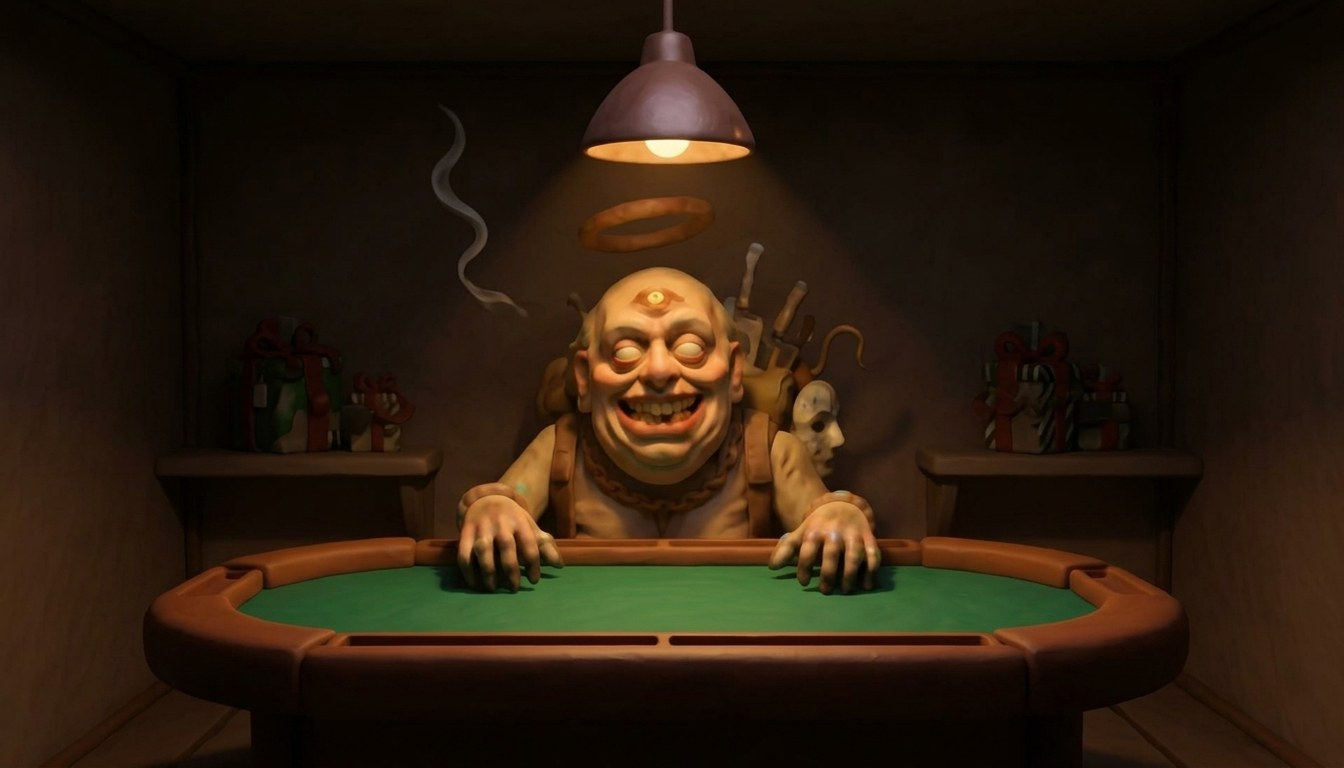
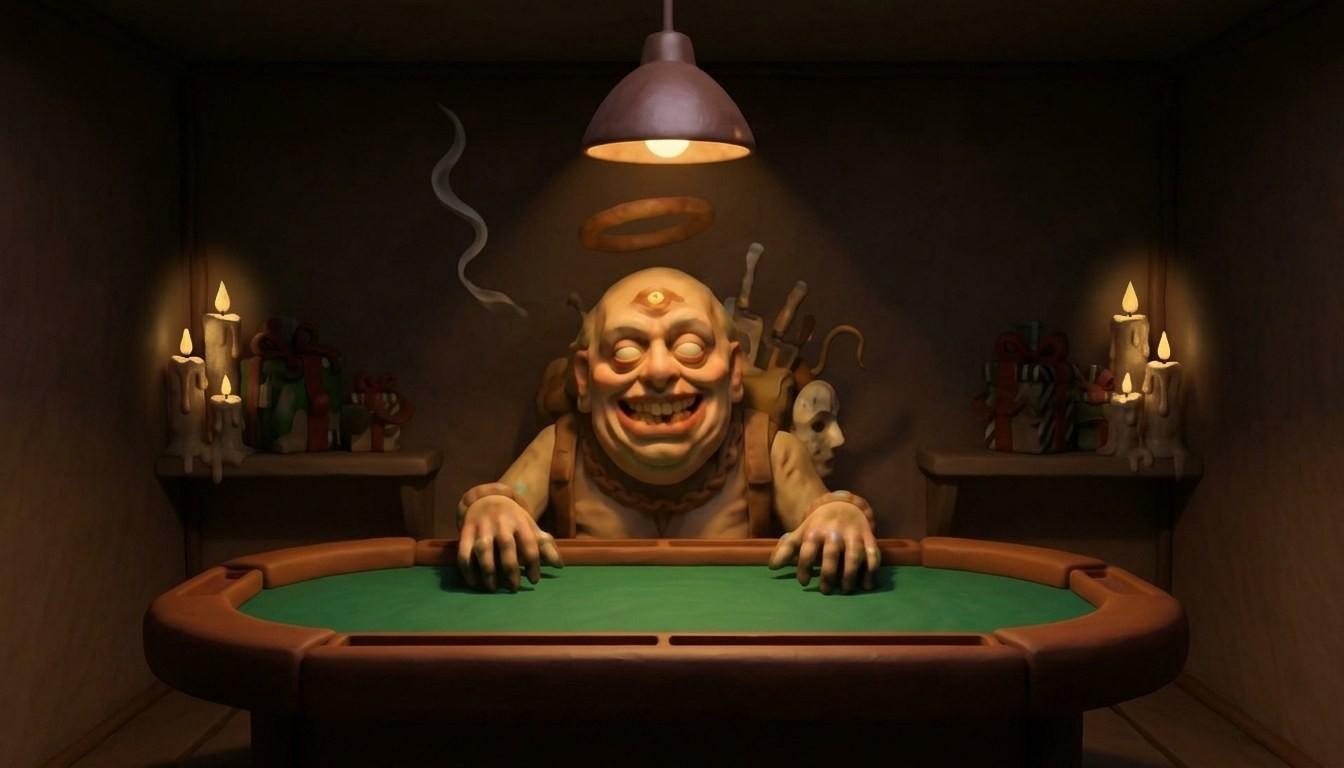
Cabin site: clay candles in the Peddler's room, hanging bulb slightly dimmer
Claude-Session: https://claude.ai/code/session_017UCt1yh6wM11RSMuh2VTku

Changed region(s): [[0.0938, 0.3125, 0.2188, 0.625], [0.7812, 0.3125, 0.9062, 0.5938]]

diff --git a/docs/index.html b/docs/index.html
@@ -128,6 +128,7 @@ button{font:inherit;color:inherit}
 @keyframes bglow{0%,100%{opacity:.15}50%{opacity:1}}
 @keyframes bdim{0%,100%{opacity:.85}50%{opacity:0}}
 .fx canvas{position:absolute;image-rendering:pixelated;opacity:.92;border-radius:8%/10%}
+.fx .lampdim{position:absolute;inset:0;pointer-events:none;background:radial-gradient(ellipse 20% 30% at 49.6% 17%,rgba(0,0,0,.34),rgba(0,0,0,.18) 55%,transparent)}
 .fx .dark{position:absolute;inset:0;background:#000;animation:lampdip 7s infinite}
 @keyframes lampdip{0%,40%,46%,100%{opacity:0}41%{opacity:.35}42%{opacity:.05}43%{opacity:.45}44%{opacity:.1}}
 @media (prefers-reduced-motion:reduce){.fx *{animation:none!important}}
@@ -398,7 +399,7 @@ button{font:inherit;color:inherit}
     </section>
 
     <section class="scene" id="s-peddler" data-crumb="The Peddler" data-back="inside">
-      <img class="bg" src="img/craps.jpg?v=5" alt="A dark private craps room sculpted in clay: the grinning three-eyed Peddler leans on a green felt craps table under a single hanging lamp, chained gift boxes in the shadows" width="1344" height="768">
+      <img class="bg" src="img/craps.jpg?v=6" alt="A dark private craps room sculpted in clay: the grinning three-eyed Peddler leans on a green felt craps table under a single hanging lamp, chained gift boxes in the shadows" width="1344" height="768">
       <div class="fx" id="fx-peddler" aria-hidden="true"></div>
       <div class="dz" id="dz" aria-hidden="true"></div>
       <img class="hand" id="hand" src="img/arm-fist.png?v=5" alt="" width="640" height="677">
@@ -838,7 +839,7 @@ button{font:inherit;color:inherit}
         candles:[[64.5,29.5,3.4],[66.8,31,2.8],[84,33,3],[87.4,30,3.4]], cflames:[[64.2, 31.6, 1.75, 4.6], [66.3, 33.0, 1.5, 4.0], [83.0, 35.3, 1.6, 4.6], [86.7, 32.6, 1.75, 5.2]],
         halos:[[66,33,12,16],[86,33,12,16]],
         fire:[70,64,11.5,15], fireHalo:[76,74,26,26], clayFire:[72.1,63.8,7,10.6,1.4]},
-      peddler:{lamp:true,halos:[[49,21,16,12],[49,60,46,40]]},
+      peddler:{lamp:true,dimLamp:true,halos:[[49,21,16,12],[49,60,46,40],[15.5,42,9,16],[84.5,42,9,16]],cflames:[[16.52, 40.1, 1.05, 3.4], [13.84, 45.7, 1.05, 3.4], [16.74, 51.69, 1.05, 3.4], [84.08, 40.1, 1.05, 3.4], [86.53, 46.35, 1.05, 3.4], [83.78, 51.3, 1.05, 3.4]]},
       exterior:{halos:[[54.8,57,10,10],[48,57,6,8],[56,57,5,7],[63.4,57,4,6],[48.4,34,4,6]]}
     };
     function el(p,cls,css){ var d=document.createElement('div'); d.className=cls; for(var k in css) d.style.setProperty(k,css[k]); p.appendChild(d); return d }
@@ -855,6 +856,8 @@ button{font:inherit;color:inherit}
       (c.cflames||[]).forEach(function(q){ el(L,'cfl',{left:q[0]+'%',top:q[1]+'%',width:q[2]+'%',height:q[3]+'%','animation-duration':rnd(1.7,2.3)+'s','animation-delay':'-'+rnd(0,2)+'s'}) });
       (c.bulbs||[]).forEach(function(b){ var d=el(L,'bulb',{left:b[0]+'%',top:b[1]+'%','--c':b[2],'--dl':'-'+rnd(0,4.2)+'s'}); d.appendChild(document.createElement('b')); d.appendChild(document.createElement('i')) });
       if(c.lamp) el(L,'dark',{});
+      // George 2026-11-28: keep the flickering bulb, just a touch dimmer
+      if(c.dimLamp) el(L,'lampdim',{});
       if(c.tv){ var t=c.tv, cv=document.createElement('canvas'); cv.width=72; cv.height=54; cv.style.left=t[0]+'%'; cv.style.top=t[1]+'%'; cv.style.width=t[2]+'%'; cv.style.height=t[3]+'%'; L.appendChild(cv);
         var cx=cv.getContext('2d'), im=cx.createImageData(72,54);
         // George 2026-11-28: the living-room TV mirrors the big TV. Off (the default) is a dark screen; on shows the channel you left it on, static between stations, or the tape.

diff --git a/site/world/index.html b/site/world/index.html
@@ -128,6 +128,7 @@ button{font:inherit;color:inherit}
 @keyframes bglow{0%,100%{opacity:.15}50%{opacity:1}}
 @keyframes bdim{0%,100%{opacity:.85}50%{opacity:0}}
 .fx canvas{position:absolute;image-rendering:pixelated;opacity:.92;border-radius:8%/10%}
+.fx .lampdim{position:absolute;inset:0;pointer-events:none;background:radial-gradient(ellipse 20% 30% at 49.6% 17%,rgba(0,0,0,.34),rgba(0,0,0,.18) 55%,transparent)}
 .fx .dark{position:absolute;inset:0;background:#000;animation:lampdip 7s infinite}
 @keyframes lampdip{0%,40%,46%,100%{opacity:0}41%{opacity:.35}42%{opacity:.05}43%{opacity:.45}44%{opacity:.1}}
 @media (prefers-reduced-motion:reduce){.fx *{animation:none!important}}
@@ -398,7 +399,7 @@ button{font:inherit;color:inherit}
     </section>
 
     <section class="scene" id="s-peddler" data-crumb="The Peddler" data-back="inside">
-      <img class="bg" src="img/craps.jpg?v=5" alt="A dark private craps room sculpted in clay: the grinning three-eyed Peddler leans on a green felt craps table under a single hanging lamp, chained gift boxes in the shadows" width="1344" height="768">
+      <img class="bg" src="img/craps.jpg?v=6" alt="A dark private craps room sculpted in clay: the grinning three-eyed Peddler leans on a green felt craps table under a single hanging lamp, chained gift boxes in the shadows" width="1344" height="768">
       <div class="fx" id="fx-peddler" aria-hidden="true"></div>
       <div class="dz" id="dz" aria-hidden="true"></div>
       <img class="hand" id="hand" src="img/arm-fist.png?v=5" alt="" width="640" height="677">
@@ -838,7 +839,7 @@ button{font:inherit;color:inherit}
         candles:[[64.5,29.5,3.4],[66.8,31,2.8],[84,33,3],[87.4,30,3.4]], cflames:[[64.2, 31.6, 1.75, 4.6], [66.3, 33.0, 1.5, 4.0], [83.0, 35.3, 1.6, 4.6], [86.7, 32.6, 1.75, 5.2]],
         halos:[[66,33,12,16],[86,33,12,16]],
         fire:[70,64,11.5,15], fireHalo:[76,74,26,26], clayFire:[72.1,63.8,7,10.6,1.4]},
-      peddler:{lamp:true,halos:[[49,21,16,12],[49,60,46,40]]},
+      peddler:{lamp:true,dimLamp:true,halos:[[49,21,16,12],[49,60,46,40],[15.5,42,9,16],[84.5,42,9,16]],cflames:[[16.52, 40.1, 1.05, 3.4], [13.84, 45.7, 1.05, 3.4], [16.74, 51.69, 1.05, 3.4], [84.08, 40.1, 1.05, 3.4], [86.53, 46.35, 1.05, 3.4], [83.78, 51.3, 1.05, 3.4]]},
       exterior:{halos:[[54.8,57,10,10],[48,57,6,8],[56,57,5,7],[63.4,57,4,6],[48.4,34,4,6]]}
     };
     function el(p,cls,css){ var d=document.createElement('div'); d.className=cls; for(var k in css) d.style.setProperty(k,css[k]); p.appendChild(d); return d }
@@ -855,6 +856,8 @@ button{font:inherit;color:inherit}
       (c.cflames||[]).forEach(function(q){ el(L,'cfl',{left:q[0]+'%',top:q[1]+'%',width:q[2]+'%',height:q[3]+'%','animation-duration':rnd(1.7,2.3)+'s','animation-delay':'-'+rnd(0,2)+'s'}) });
       (c.bulbs||[]).forEach(function(b){ var d=el(L,'bulb',{left:b[0]+'%',top:b[1]+'%','--c':b[2],'--dl':'-'+rnd(0,4.2)+'s'}); d.appendChild(document.createElement('b')); d.appendChild(document.createElement('i')) });
       if(c.lamp) el(L,'dark',{});
+      // George 2026-11-28: keep the flickering bulb, just a touch dimmer
+      if(c.dimLamp) el(L,'lampdim',{});
       if(c.tv){ var t=c.tv, cv=document.createElement('canvas'); cv.width=72; cv.height=54; cv.style.left=t[0]+'%'; cv.style.top=t[1]+'%'; cv.style.width=t[2]+'%'; cv.style.height=t[3]+'%'; L.appendChild(cv);
         var cx=cv.getContext('2d'), im=cx.createImageData(72,54);
         // George 2026-11-28: the living-room TV mirrors the big TV. Off (the default) is a dark screen; on shows the channel you left it on, static between stations, or the tape.

diff --git a/site/world/page.html b/site/world/page.html
@@ -123,6 +123,7 @@ button{font:inherit;color:inherit}
 @keyframes bglow{0%,100%{opacity:.15}50%{opacity:1}}
 @keyframes bdim{0%,100%{opacity:.85}50%{opacity:0}}
 .fx canvas{position:absolute;image-rendering:pixelated;opacity:.92;border-radius:8%/10%}
+.fx .lampdim{position:absolute;inset:0;pointer-events:none;background:radial-gradient(ellipse 20% 30% at 49.6% 17%,rgba(0,0,0,.34),rgba(0,0,0,.18) 55%,transparent)}
 .fx .dark{position:absolute;inset:0;background:#000;animation:lampdip 7s infinite}
 @keyframes lampdip{0%,40%,46%,100%{opacity:0}41%{opacity:.35}42%{opacity:.05}43%{opacity:.45}44%{opacity:.1}}
 @media (prefers-reduced-motion:reduce){.fx *{animation:none!important}}
@@ -393,7 +394,7 @@ button{font:inherit;color:inherit}
     </section>
 
     <section class="scene" id="s-peddler" data-crumb="The Peddler" data-back="inside">
-      <img class="bg" src="img/craps.jpg?v=5" alt="A dark private craps room sculpted in clay: the grinning three-eyed Peddler leans on a green felt craps table under a single hanging lamp, chained gift boxes in the shadows" width="1344" height="768">
+      <img class="bg" src="img/craps.jpg?v=6" alt="A dark private craps room sculpted in clay: the grinning three-eyed Peddler leans on a green felt craps table under a single hanging lamp, chained gift boxes in the shadows" width="1344" height="768">
       <div class="fx" id="fx-peddler" aria-hidden="true"></div>
       <div class="dz" id="dz" aria-hidden="true"></div>
       <img class="hand" id="hand" src="img/arm-fist.png?v=5" alt="" width="640" height="677">
@@ -833,7 +834,7 @@ button{font:inherit;color:inherit}
         candles:[[64.5,29.5,3.4],[66.8,31,2.8],[84,33,3],[87.4,30,3.4]], cflames:[[64.2, 31.6, 1.75, 4.6], [66.3, 33.0, 1.5, 4.0], [83.0, 35.3, 1.6, 4.6], [86.7, 32.6, 1.75, 5.2]],
         halos:[[66,33,12,16],[86,33,12,16]],
         fire:[70,64,11.5,15], fireHalo:[76,74,26,26], clayFire:[72.1,63.8,7,10.6,1.4]},
-      peddler:{lamp:true,halos:[[49,21,16,12],[49,60,46,40]]},
+      peddler:{lamp:true,dimLamp:true,halos:[[49,21,16,12],[49,60,46,40],[15.5,42,9,16],[84.5,42,9,16]],cflames:[[16.52, 40.1, 1.05, 3.4], [13.84, 45.7, 1.05, 3.4], [16.74, 51.69, 1.05, 3.4], [84.08, 40.1, 1.05, 3.4], [86.53, 46.35, 1.05, 3.4], [83.78, 51.3, 1.05, 3.4]]},
       exterior:{halos:[[54.8,57,10,10],[48,57,6,8],[56,57,5,7],[63.4,57,4,6],[48.4,34,4,6]]}
     };
     function el(p,cls,css){ var d=document.createElement('div'); d.className=cls; for(var k in css) d.style.setProperty(k,css[k]); p.appendChild(d); return d }
@@ -850,6 +851,8 @@ button{font:inherit;color:inherit}
       (c.cflames||[]).forEach(function(q){ el(L,'cfl',{left:q[0]+'%',top:q[1]+'%',width:q[2]+'%',height:q[3]+'%','animation-duration':rnd(1.7,2.3)+'s','animation-delay':'-'+rnd(0,2)+'s'}) });
       (c.bulbs||[]).forEach(function(b){ var d=el(L,'bulb',{left:b[0]+'%',top:b[1]+'%','--c':b[2],'--dl':'-'+rnd(0,4.2)+'s'}); d.appendChild(document.createElement('b')); d.appendChild(document.createElement('i')) });
       if(c.lamp) el(L,'dark',{});
+      // George 2026-11-28: keep the flickering bulb, just a touch dimmer
+      if(c.dimLamp) el(L,'lampdim',{});
       if(c.tv){ var t=c.tv, cv=document.createElement('canvas'); cv.width=72; cv.height=54; cv.style.left=t[0]+'%'; cv.style.top=t[1]+'%'; cv.style.width=t[2]+'%'; cv.style.height=t[3]+'%'; L.appendChild(cv);
         var cx=cv.getContext('2d'), im=cx.createImageData(72,54);
         // George 2026-11-28: the living-room TV mirrors the big TV. Off (the default) is a dark screen; on shows the channel you left it on, static between stations, or the tape.
